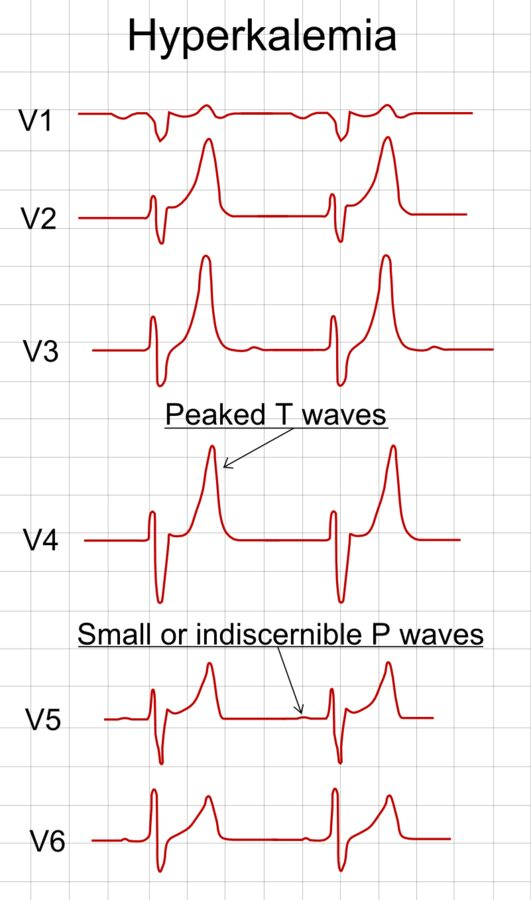
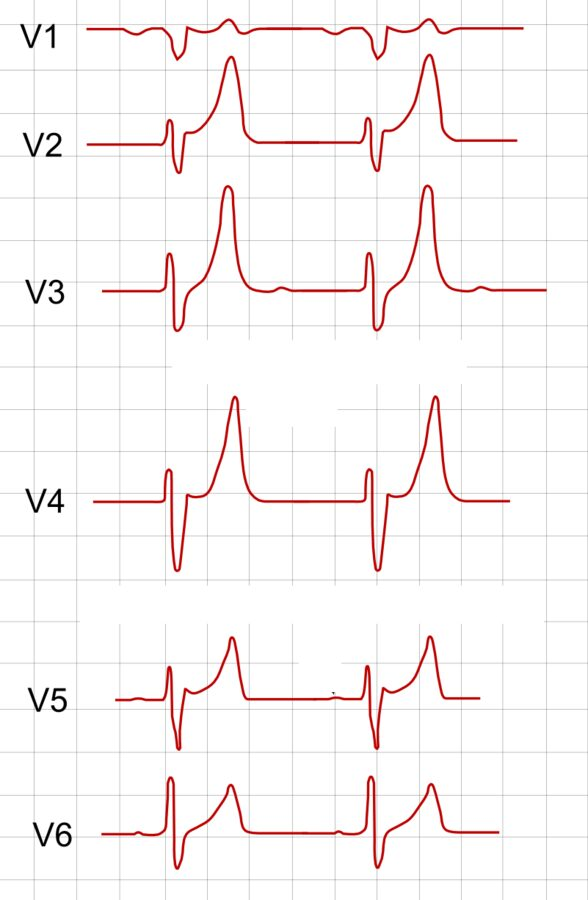
Fallbild-EKG ohne verratende Beschriftung, README
Claude-Session: https://claude.ai/code/session_01SDfytJpwKb7S8rdknursci

diff --git a/data/fallbilder.js b/data/fallbilder.js
@@ -81,6 +81,6 @@ window.FALLBILDER = [
       "Typisch für **Hyperkaliämie**; ==Kalium außen ↑ → Ruhemembranpotenzial weniger negativ → Natriumkanäle teils inaktiviert → Erregungsleitung langsamer → später breiter QRS, Sinuswelle, Kammerflimmern==.",
       "Konsequenz: Kalium sofort bestimmen (Blutgas); bei EKG-Veränderungen **Calcium i.v.**, dann Insulin-Glukose, Salbutamol, Dialyse; Monitor."
     ],
-    quelle: { autor: "Mikael Häggström", titel: "ECG in hyperkalemia", url: "https://commons.wikimedia.org/wiki/File:ECG_in_hyperkalemia.png", lizenz: "gemeinfrei (Public Domain)", geaendert: "verkleinert, Hintergrund weiß" }
+    quelle: { autor: "Mikael Häggström", titel: "ECG in hyperkalemia", url: "https://commons.wikimedia.org/wiki/File:ECG_in_hyperkalemia.png", lizenz: "gemeinfrei (Public Domain)", geaendert: "verkleinert, Titel und Beschriftungen entfernt" }
   }
 ];

diff --git a/README.md b/README.md
@@ -40,6 +40,7 @@ Der gesamte Fortschritt (Karteikarten-Status, Testergebnisse) wird ausschließli
 - **Richtig/Falsch (Teil-1-Format)**: 40 eigene Stämme mit je 5 Aussagen (Paper A Grundlagen, Paper B Klinik), Übungsmodus mit Auflösung je Stamm oder Prüfungssimulation mit Zeit wie im Original (120 bzw. 90 min auf 60 Stämme umgerechnet), Wertung je Aussage, Themen unter 80 %. Stämme und Aussagen werden jede Runde neu gemischt.
 - **Zeichnen**: 28 Zeichenaufgaben, die in der mündlichen Prüfung typischerweise verlangt werden (u.a. Grundstruktur der Lokalanästhetika mit Lidocain/Procain, O₂-Bindungskurve, Kapnographie, Arterienkurve, Pulsoxymetrie-Spektren, Druck-Volumen-Schleife, Wiggers-Diagramm, Aktionspotenziale, Frank-Starling/Guyton, Spirometrie, Compliance, West-Zonen, Iso-Shunt, Autoregulation, Gegenstrom, Dosis-Wirkung, Pharmakokinetik, TOF, ROTEM, Plexus brachialis, Rückenschichten). Ablauf: frei zeichnen (Zeichenfläche oder Papier) → Checkliste → Musterzeichnung mit „Beim Zeichnen sagen“ → Selbstbewertung mit Wiederholung nach 1–3–7–14–30–60 Tagen.
 - **Teil-2-Fokus (SOE 1–4)**: Szenarien nach den offiziellen SOE-Profilen geordnet (1 Physiologie/Anatomie, 2 Pharmakologie/Messtechnik, 3 Anästhesie/Zwischenfall, 4 Intensiv/Notfall/Bildbefund). 32 Pflichtfragen (je 8 zu Anatomie, Messtechnik, Zwischenfällen, Bild- und Befundinterpretation) mit Kernpunkten und eigenen Schema-Abbildungen (Röntgen-Thorax mit Tubus/ZVK/Magensonde, Lungenultraschall, Schädel-CT-Blutungen, eFAST, EKG bei Hyperkaliämie). Der Prüfungstag lost je SOE ein passendes Einstiegsszenario plus Pflichtfrage aus – 5 gleich gewichtete Fragen wie im Original.
+- **Fallbilder (SOE 4)**: echte, ausschließlich gemeinfreie Bilder (Public Domain bzw. CC0, Wikimedia Commons) zum Befunden – Pneumothorax nach Portanlage, Linksherzinsuffizienz mit Kerley-B-Linien, ARDS, Pleuraerguss in Seitenlage, akutes Subduralhämatom mit Mittellinienverlagerung, EKG bei Hyperkaliämie. Erst laut befunden, dann Befund mit Kausalkette und Konsequenz aufdecken; in der SOE-4-Simulation legt der „Prüfer“ passende Bilder zur Pflichtfrage vor. Bildnachweis steht unter jedem Bild.
 - **SOE-Simulation**: jedes Szenario als Prüfung mit 10 min Vorbereitung (Notizfeld), 25 min Prüfung (Fragen einzeln, Hinweis auf Prüferwechsel), Selbstbewertung mit der offiziellen 0/1/2-Skala; **Prüfungstag** mit 2 SOEs Basiswissenschaften + 2 Klinik und Auswertung gegen die Bestehensschwellen.
 - **Mündlich (Teil 2/SOE)**: 41 mündliche Prüfungsszenarien im Stil der EDAIC Structured Oral Examination (17 Basiswissenschaften, 24 Klinik – u.a. Kardio-/Thorax-, Neuro- und Transplantationsanästhesie, Kinder- und Neugeborenenreanimation, Phäochromozytom, Myasthenie, Hüftfraktur im Alter, Schwangerschaft, Adipositas, MANV, MRT-Sedierung, Hämophilie, euglykämische Ketoazidose, ICD, Anaphylaxie) mit Rückfragen des Prüfers, ausführlicher Musterantwort zum laut Nachsprechen und Hinweisen, worauf der Prüfer achtet – trainiert freies mündliches Antworten statt nur Faktenwissen.
 - **Literatur**: Eigener Reiter für selbst eingebrachte Fachartikel. Schick mir (in einer Nachricht an den Claude-Code-Assistenten) einen Artikel als PDF oder eingefügten Text – ich fasse die Kernaussagen als Karteikarten zusammen und ergänze passende Testfragen, jeweils der Originalquelle zugeordnet. Die Karten laufen dann durch dasselbe Spaced-Repetition-System wie alle anderen Inhalte. Aktuell enthalten: 42 Karten und 21 Testfragen zu 9 Fachartikeln aus "Die Anaesthesiologie" (Ausgaben 1-2/2025), u.a. Post-Intensive Care Syndrom, Schweizer Atemwegsmanagement-Umfrage, KURZcheck-Nutzerverhalten, eGENA-Gedächtnishilfe, Fixierpflaster-Patientensicherheit, Kitteltaschenkarte Kinderhypotonie, Fellowship Kinderanästhesiologie, Tumorschmerz und die Geschichte der Laryngoskopie (Alfred Kirstein) – jeweils gruppiert nach Quelle, mit Durchgehen-Modus, Testmodus und Gelernt-Abhaken wie bei den Leitlinien. Schick mir gern weitere Artikel, damit ich sie ergänze.
@@ -83,6 +84,7 @@ Alle Inhalte liegen als einfache JavaScript-Arrays vor und lassen sich leicht er
 - `data/mtf.js` – Richtig/Falsch-Stämme: `{ id, paper: "A"|"B", thema, stamm, aussagen: [[Text, richtig, Erklärung] × 5] }`
 - `data/zeichnen.js` – Zeichenaufgaben: `{ id, titel, bereich, aufgabe, checkliste, erklaeren, modelle: [{ abb | kurve | svg, text }], kapitel }`
 - `data/soe_teil2.js` – SOE-Profile, Zuordnung Szenario → SOE, Pflichtfragen: `{ id, soe, thema, frage, kern: [...], link?, nicht?: [Szenario-ids], svg? }`
+- `data/fallbilder.js` – Fallbilder: `{ id, pflicht, titel, src, alt, aufgabe, befund: [...], loesung?, quelle: { autor, titel, url, lizenz } }`; Bilddateien in `img/faelle/` (nur gemeinfrei, verkleinert)
 - `data/soe.js` – Mündliche Prüfungsszenarien (Teil 2/SOE): `{ id, category, title, scenario, followups: [String, ...], modelAnswer, examTips }` (Erweiterungen in `data/soe_erweiterung.js`)
 - `data/erweiterung_*.js` – thematische Erweiterungspakete (Karten und Fragen, werden an `FLASHCARDS`/`MCQ` angehängt)
 - `data/spezial_*.js` – Spezialwissen-Organkapitel (Aufbau siehe `data/spezial.js`)
